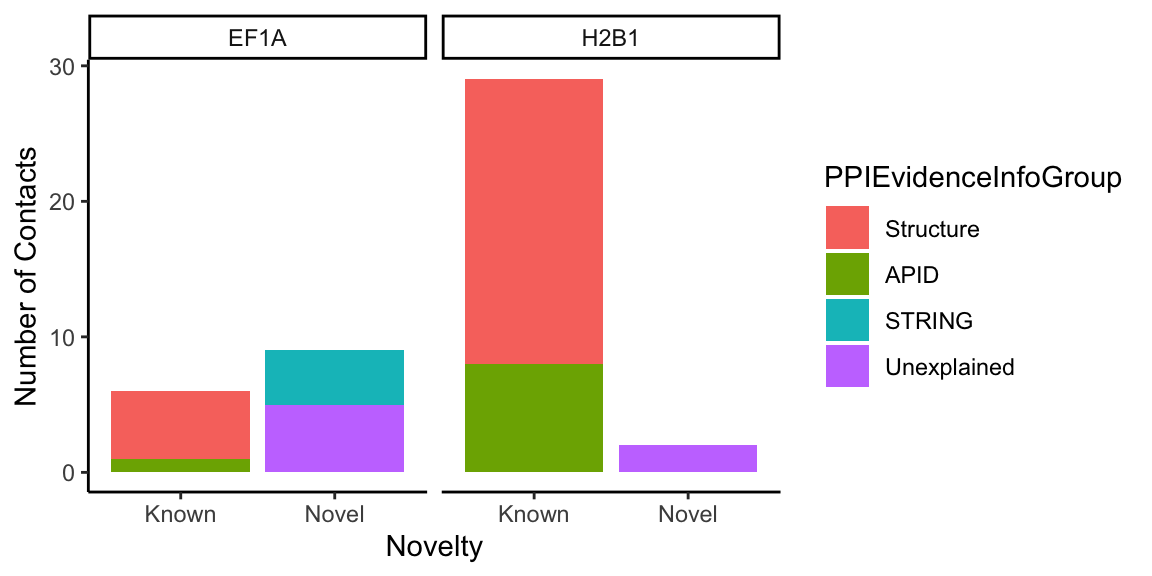
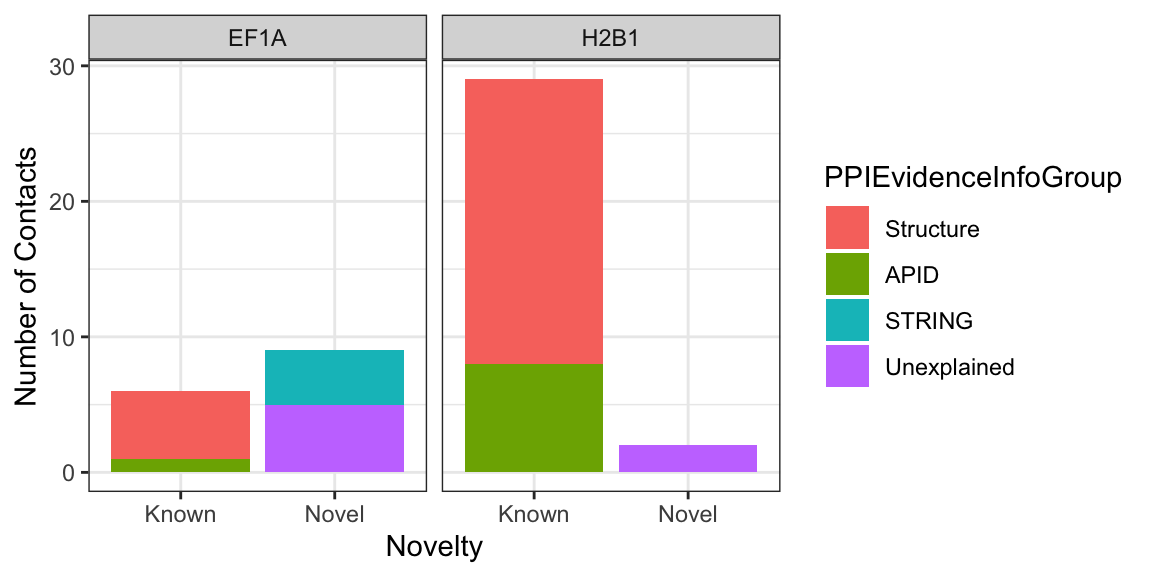
site updated

diff --git a/docs/proteomics-data-viz.html b/docs/proteomics-data-viz.html
@@ -327,19 +327,20 @@ Here we will order the Evidence based on Strength of evidence for the interactio
 <div class="sourceCode" id="cb173"><pre class="sourceCode r"><code class="sourceCode r"><span id="cb173-1"><a href="proteomics-data-viz.html#cb173-1"></a><span class="kw">ggplot</span>(nuclear_xl_ms, <span class="kw">aes</span>(<span class="dt">x =</span> PPINovelty)) <span class="op">+</span><span class="st"> </span></span>
 <span id="cb173-2"><a href="proteomics-data-viz.html#cb173-2"></a><span class="kw">geom_bar</span>() <span class="op">+</span><span class="st"> </span></span>
 <span id="cb173-3"><a href="proteomics-data-viz.html#cb173-3"></a><span class="st">        </span><span class="kw">xlab</span>(<span class="st">&quot;Novelty&quot;</span>) <span class="op">+</span></span>
-<span id="cb173-4"><a href="proteomics-data-viz.html#cb173-4"></a><span class="st">  </span><span class="kw">theme_classic</span>()</span></code></pre></div>
+<span id="cb173-4"><a href="proteomics-data-viz.html#cb173-4"></a><span class="st">  </span><span class="kw">theme_bw</span>()</span></code></pre></div>
 <p><img src="Proteomics_data_viz_files/figure-html/unnamed-chunk-9-1.png" width="576" style="display: block; margin: auto;" /></p>
-<p>Now, we will rotate the bars to <strong>Y-Axis</strong> using <code>position="dodge"</code></p>
+<p>Now, we will rotate the bars to <strong>Y-Axis</strong> using <code>coord_flip()"</code></p>
 <div class="sourceCode" id="cb174"><pre class="sourceCode r"><code class="sourceCode r"><span id="cb174-1"><a href="proteomics-data-viz.html#cb174-1"></a><span class="kw">ggplot</span>(nuclear_xl_ms, <span class="kw">aes</span>(<span class="dt">x =</span> PPINovelty)) <span class="op">+</span><span class="st"> </span></span>
-<span id="cb174-2"><a href="proteomics-data-viz.html#cb174-2"></a><span class="kw">geom_bar</span>(<span class="dt">position =</span> <span class="st">&quot;dodge&quot;</span>) <span class="op">+</span><span class="st"> </span></span>
+<span id="cb174-2"><a href="proteomics-data-viz.html#cb174-2"></a><span class="st"> </span><span class="kw">geom_bar</span>(<span class="dt">position =</span> <span class="st">&quot;dodge&quot;</span>) <span class="op">+</span><span class="st"> </span></span>
 <span id="cb174-3"><a href="proteomics-data-viz.html#cb174-3"></a><span class="st">        </span><span class="kw">xlab</span>(<span class="st">&quot;Novelty&quot;</span>) <span class="op">+</span></span>
-<span id="cb174-4"><a href="proteomics-data-viz.html#cb174-4"></a><span class="st">  </span><span class="kw">theme_classic</span>()</span></code></pre></div>
+<span id="cb174-4"><a href="proteomics-data-viz.html#cb174-4"></a><span class="st">        </span><span class="kw">coord_flip</span>() <span class="op">+</span></span>
+<span id="cb174-5"><a href="proteomics-data-viz.html#cb174-5"></a><span class="st">  </span><span class="kw">theme_bw</span>()</span></code></pre></div>
 <p><img src="Proteomics_data_viz_files/figure-html/unnamed-chunk-10-1.png" width="576" style="display: block; margin: auto;" /></p>
 <p>Next, step would be to create a stacked bar chart by adding <strong>PPIEvidenceInfoGroup</strong> data on top of each bar</p>
 <div class="sourceCode" id="cb175"><pre class="sourceCode r"><code class="sourceCode r"><span id="cb175-1"><a href="proteomics-data-viz.html#cb175-1"></a><span class="kw">ggplot</span>(nuclear_xl_ms, <span class="kw">aes</span>(PPINovelty)) <span class="op">+</span><span class="st"> </span></span>
-<span id="cb175-2"><a href="proteomics-data-viz.html#cb175-2"></a><span class="kw">geom_bar</span>(<span class="kw">aes</span>(<span class="dt">fill=</span>PPIEvidenceInfoGroup),</span>
-<span id="cb175-3"><a href="proteomics-data-viz.html#cb175-3"></a>        <span class="dt">position =</span> <span class="st">&quot;dodge&quot;</span>) <span class="op">+</span><span class="st"> </span></span>
-<span id="cb175-4"><a href="proteomics-data-viz.html#cb175-4"></a><span class="st">        </span><span class="kw">xlab</span>(<span class="st">&quot;Novelty&quot;</span>) <span class="op">+</span></span>
+<span id="cb175-2"><a href="proteomics-data-viz.html#cb175-2"></a><span class="st">  </span><span class="kw">geom_bar</span>(<span class="kw">aes</span>(<span class="dt">fill=</span>PPIEvidenceInfoGroup)) <span class="op">+</span><span class="st"> </span></span>
+<span id="cb175-3"><a href="proteomics-data-viz.html#cb175-3"></a><span class="st">        </span><span class="kw">xlab</span>(<span class="st">&quot;Novelty&quot;</span>) <span class="op">+</span></span>
+<span id="cb175-4"><a href="proteomics-data-viz.html#cb175-4"></a><span class="st">        </span><span class="kw">coord_flip</span>() <span class="op">+</span></span>
 <span id="cb175-5"><a href="proteomics-data-viz.html#cb175-5"></a><span class="st">  </span><span class="kw">theme_bw</span>()</span></code></pre></div>
 <p><img src="Proteomics_data_viz_files/figure-html/unnamed-chunk-11-1.png" width="576" style="display: block; margin: auto;" /></p>
 </div>
@@ -364,7 +365,7 @@ Next we will use <code>head()</code> function to print first five proteins with 
 <span id="cb180-5"><a href="proteomics-data-viz.html#cb180-5"></a><span class="st">  </span><span class="kw">labs</span>(<span class="dt">x=</span> <span class="st">&quot;Novelty&quot;</span>,</span>
 <span id="cb180-6"><a href="proteomics-data-viz.html#cb180-6"></a>  <span class="dt">y=</span> <span class="st">&quot;Number of Contacts&quot;</span>) <span class="op">+</span></span>
 <span id="cb180-7"><a href="proteomics-data-viz.html#cb180-7"></a><span class="st">  </span><span class="kw">facet_wrap</span>(<span class="op">~</span>NameProtein1)<span class="op">+</span></span>
-<span id="cb180-8"><a href="proteomics-data-viz.html#cb180-8"></a><span class="st">  </span><span class="kw">theme_classic</span>()</span></code></pre></div>
+<span id="cb180-8"><a href="proteomics-data-viz.html#cb180-8"></a><span class="st">  </span><span class="kw">theme_bw</span>()</span></code></pre></div>
 <p><img src="Proteomics_data_viz_files/figure-html/unnamed-chunk-14-1.png" width="576" style="display: block; margin: auto;" /></p>
 
 </div>

diff --git a/docs/Proteomics_data_viz.md b/docs/Proteomics_data_viz.md
@@ -177,19 +177,20 @@ Firstly we will plot the number of Known and novel interactions using with `geom
 ggplot(nuclear_xl_ms, aes(x = PPINovelty)) + 
 geom_bar() + 
         xlab("Novelty") +
-  theme_classic()
+  theme_bw()
 ```
 
 <img src="Proteomics_data_viz_files/figure-html/unnamed-chunk-9-1.png" width="576" style="display: block; margin: auto;" />
 
-Now, we will rotate the bars to **Y-Axis** using `position="dodge"`
+Now, we will rotate the bars to **Y-Axis** using `coord_flip()"`
 
 
 ```r
 ggplot(nuclear_xl_ms, aes(x = PPINovelty)) + 
-geom_bar(position = "dodge") + 
+ geom_bar(position = "dodge") + 
         xlab("Novelty") +
-  theme_classic()
+        coord_flip() +
+  theme_bw()
 ```
 
 <img src="Proteomics_data_viz_files/figure-html/unnamed-chunk-10-1.png" width="576" style="display: block; margin: auto;" />
@@ -199,9 +200,9 @@ Next, step would be to create a stacked bar chart by adding **PPIEvidenceInfoGro
 
 ```r
 ggplot(nuclear_xl_ms, aes(PPINovelty)) + 
-geom_bar(aes(fill=PPIEvidenceInfoGroup),
-        position = "dodge") + 
+  geom_bar(aes(fill=PPIEvidenceInfoGroup)) + 
         xlab("Novelty") +
+        coord_flip() +
   theme_bw()
 ```
 
@@ -248,7 +249,7 @@ ggplot(two_protein_df, aes(x=PPINovelty, y=NumberUniqueLysLysContacts)) +
   labs(x= "Novelty",
   y= "Number of Contacts") +
   facet_wrap(~NameProtein1)+
-  theme_classic()
+  theme_bw()
 ```
 
 <img src="Proteomics_data_viz_files/figure-html/unnamed-chunk-14-1.png" width="576" style="display: block; margin: auto;" />
